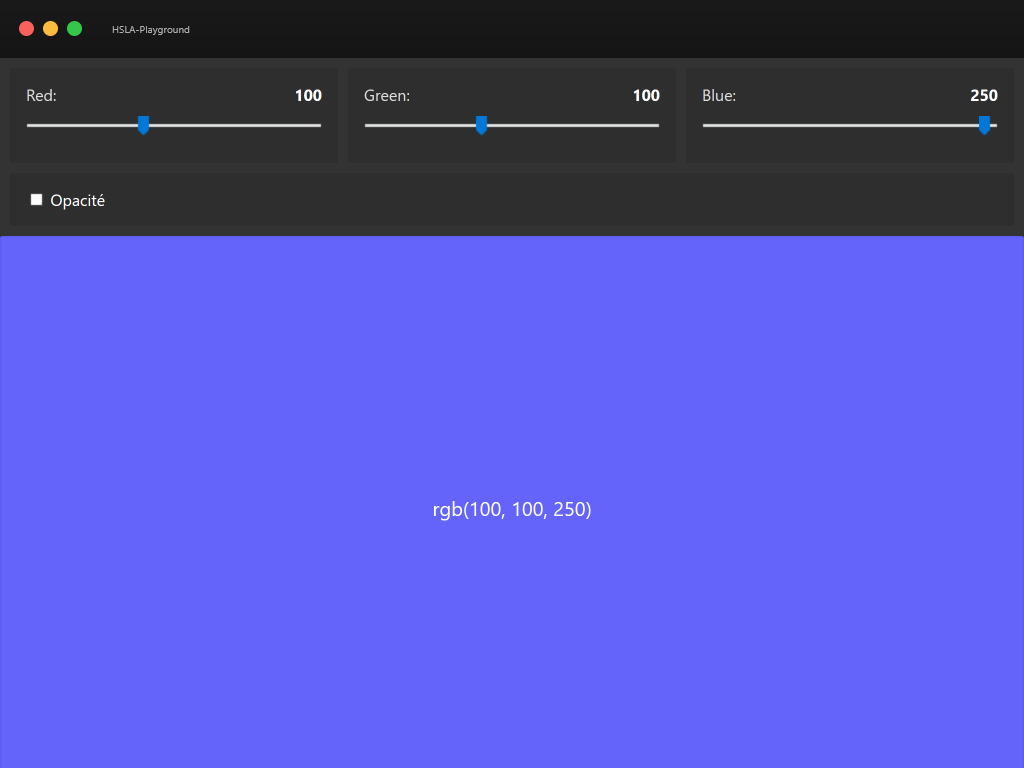
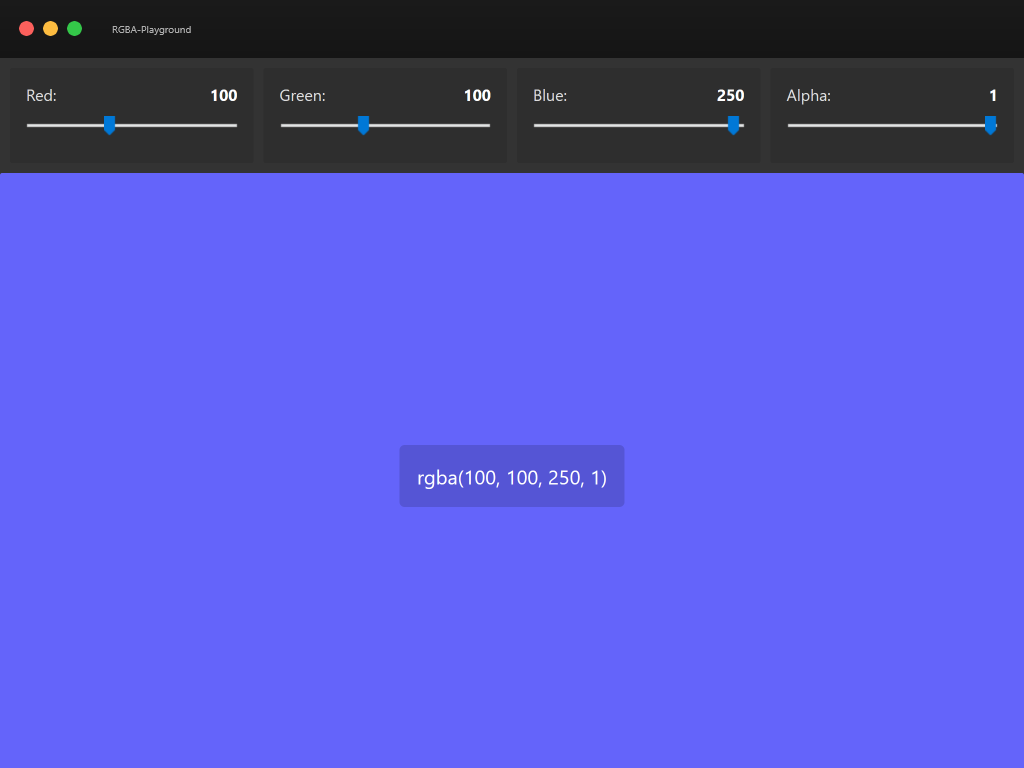
Refactor JS & Update styles

diff --git a/css/style.min.css b/css/style.min.css
@@ -1,2 +1,2 @@
-*,*:before,*:after{-webkit-box-sizing:border-box;box-sizing:border-box}@font-face{font-family:'icomoon';src:url("../fonts/icomoon.eot?rmqgkb");src:url("../fonts/icomoon.eot?rmqgkb#iefix") format("embedded-opentype"),url("../fonts/icomoon.ttf?rmqgkb") format("truetype"),url("../fonts/icomoon.woff?rmqgkb") format("woff"),url("../fonts/icomoon.svg?rmqgkb#icomoon") format("svg");font-weight:normal;font-style:normal;font-display:block}[class^="icon-"],[class*=" icon-"]{font-family:'icomoon' !important;speak:none;font-style:normal;font-weight:normal;font-variant:normal;text-transform:none;line-height:1;-webkit-font-smoothing:antialiased;-moz-osx-font-smoothing:grayscale}.icon-heart:before{content:"\e9da"}.icon-embed2:before{content:"\ea80"}.icon-github:before{content:"\eab0"}html{font-size:100%}@media only screen and (min-width: 480px){html,body{height:100%}}body{position:relative;z-index:1;display:-webkit-box;display:-ms-flexbox;display:flex;-webkit-box-orient:vertical;-webkit-box-direction:normal;-ms-flex-direction:column;flex-direction:column;margin:0;font-family:-apple-system, BlinkMacSystemFont, "Segoe UI", Roboto, Oxygen-Sans, Ubuntu, Cantarell, "Helvetica Neue", sans-serif;color:#fff;background:#333}.selectors{padding:.3125rem}.selectors_inner{display:-webkit-box;display:-ms-flexbox;display:flex;-ms-flex-wrap:wrap;flex-wrap:wrap}.selector{-webkit-box-flex:1;-ms-flex:1 0 20rem;flex:1 0 20rem;padding:1rem;margin:.3125rem;background:rgba(0,0,0,0.1);border-radius:2px}.selector_inner{display:-webkit-box;display:-ms-flexbox;display:flex;-ms-flex-wrap:wrap;flex-wrap:wrap}.selector[class^="selector_"]{-webkit-box-flex:0;-ms-flex:0 0 auto;flex:0 0 auto;min-width:0;min-height:0}.selector_range{-webkit-box-flex:1;-ms-flex:1 0 100%;flex:1 0 100%;margin:.625rem 0}.selector_label{-webkit-box-flex:1;-ms-flex:1 0 auto;flex:1 0 auto;color:#ddd}.selector_value{font-weight:700}.opacity .selector_inner{-webkit-box-orient:vertical;-webkit-box-direction:normal;-ms-flex-direction:column;flex-direction:column;max-width:20rem}#opacitySelector{display:none;-ms-flex-wrap:wrap;flex-wrap:wrap;margin-top:.625rem}
+*,*:before,*:after{-webkit-box-sizing:border-box;box-sizing:border-box}@font-face{font-family:'icomoon';src:url("../fonts/icomoon.eot?rmqgkb");src:url("../fonts/icomoon.eot?rmqgkb#iefix") format("embedded-opentype"),url("../fonts/icomoon.ttf?rmqgkb") format("truetype"),url("../fonts/icomoon.woff?rmqgkb") format("woff"),url("../fonts/icomoon.svg?rmqgkb#icomoon") format("svg");font-weight:normal;font-style:normal;font-display:block}[class^="icon-"],[class*=" icon-"]{font-family:'icomoon' !important;speak:none;font-style:normal;font-weight:normal;font-variant:normal;text-transform:none;line-height:1;-webkit-font-smoothing:antialiased;-moz-osx-font-smoothing:grayscale}.icon-heart:before{content:"\e9da"}.icon-embed2:before{content:"\ea80"}.icon-github:before{content:"\eab0"}html{font-size:100%}@media only screen and (min-width: 480px){html,body{height:100%}}body{position:relative;z-index:1;display:-webkit-box;display:-ms-flexbox;display:flex;-webkit-box-orient:vertical;-webkit-box-direction:normal;-ms-flex-direction:column;flex-direction:column;min-height:100vh;margin:0;font-family:-apple-system, BlinkMacSystemFont, "Segoe UI", Roboto, Oxygen-Sans, Ubuntu, Cantarell, "Helvetica Neue", sans-serif;color:#fff;background:#333}.selectors{padding:.3125rem}.selectors_inner{display:-webkit-box;display:-ms-flexbox;display:flex;-ms-flex-wrap:wrap;flex-wrap:wrap}.selector{-webkit-box-flex:1;-ms-flex:1 0 0px;flex:1 0 0;padding:1rem;margin:.3125rem;background:rgba(0,0,0,0.1);border-radius:2px}.selector_inner{display:-webkit-box;display:-ms-flexbox;display:flex;-ms-flex-wrap:wrap;flex-wrap:wrap}.selector[class^="selector_"]{-webkit-box-flex:0;-ms-flex:0 0 auto;flex:0 0 auto;min-width:0;min-height:0}.selector_range{-webkit-box-flex:1;-ms-flex:1 0 100%;flex:1 0 100%;margin:.625rem 0}.selector_label{-webkit-box-flex:1;-ms-flex:1 0 auto;flex:1 0 auto;color:#ddd}.selector_value{font-weight:700}@media only screen and (max-width: 480px){.selector{padding:.3125em;font-size:.75em}}
 /*# sourceMappingURL=style.min.css.map */

diff --git a/js/index.js b/js/index.js
@@ -1,96 +1,41 @@
-// -----------------------------------------------------------------------
-// GET RGB
-// -----------------------------------------------------------------------
 
-function rgbDef(value1, value2, value3, range1, range2, range3, result, txt) {
+var rgbaPlayground = {
 
-  value1.innerHTML = range1;
-  value2.innerHTML = range2;
-  value3.innerHTML = range3;
+  ranges: document.querySelectorAll(".selector_range"),
+  values: document.querySelectorAll(".selector_value"),
+  result: document.querySelector('.resultat'),
+  txt: document.querySelector('.resultat_value'),
 
-  let resultValues = "rgb(" + range1 + ", " + range2 + ", " + range3 + ")";
+  init: function() {
+    this._displayRgba()
+    this._showValue()
+  },
 
-  result.style.background = resultValues
-  txt.innerHTML = resultValues
+  _displayRgba() {
 
-}
+    this.values[0].innerHTML = this.ranges[0].value;
+    this.values[1].innerHTML = this.ranges[1].value;
+    this.values[2].innerHTML = this.ranges[2].value;
+    this.values[3].innerHTML = this.ranges[3].value;
 
-function rgbDefFunc() {
+    var resultValues = "rgba(" + this.ranges[0].value + ", " + this.ranges[1].value + ", " + this.ranges[2].value + ", " + this.ranges[3].value + ")"
+    this.result.style.background = resultValues
+    this.txt.innerHTML = resultValues
 
-  let ranges = document.querySelectorAll(".selector_range")
-  let values = document.querySelectorAll(".selector_value")
-  let result = document.querySelector('.colors')
-  let txt = document.querySelector('.resultat')
+  },
 
-  rgbDef(values[0], values[1], values[2], ranges[0].value, ranges[1].value, ranges[2].value, result, txt)
 
-}
+  // Display values
+  _showValue: function () {
+    var self = this
 
-// -----------------------------------------------------------------------
-// GET RGBA
-// -----------------------------------------------------------------------
-
-function rgbaDef(value1, value2, value3, value4, range1, range2, range3, range4,  result, txt) {
-
-  value1.innerHTML = range1;
-  value2.innerHTML = range2;
-  value3.innerHTML = range3;
-  value4.innerHTML = range4;
-
-  let resultValues = "rgba(" + range1 + ", " + range2 + ", " + range3 + ", " + range4 + ")"
-
-  result.style.background = resultValues
-  txt.innerHTML = resultValues
-
-}
-
-function rgbaDefFunc() {
-
-  let ranges = document.querySelectorAll(".selector_range")
-  let values = document.querySelectorAll(".selector_value")
-  let result = document.querySelector('.colors')
-  let txt = document.querySelector('.resultat')
-
-  rgbaDef(values[0], values[1], values[2], values[3], ranges[0].value, ranges[1].value, ranges[2].value, ranges[3].value, result, txt)
-
-}
-
-// -----------------------------------------------------------------------
-// DISPLAY DYNAMIC VALUES
-// -----------------------------------------------------------------------
-
-// RGB
-rgbDefFunc()
-
-// RGBA
-rgbaDefFunc()
-
-// Check opacity
-function checkOpacity() {
-  // Get the checkbox
-  let checkBox = document.getElementById("checkOpacity")
-  // Get the opacity container
-  let opacitySelector = document.getElementById("opacitySelector")
-  // Get opacity range
-  let opacityRange = document.querySelector('#opacitySelector input')
-  // If the checkbox is checked
-  if (checkBox.checked == true) {
-    // Show opacity range
-    opacitySelector.style.display = "flex";
-    // Apply rgba function
-    rgbaDefFunc()
-  } else {
-    // Hide opacity range
-    opacitySelector.style.display = "none";
-    // Reinitialize opacity value
-    opacityRange.value = 1
-    // Apply rgb function
-    rgbDefFunc()
+    for (range of this.ranges) {
+      range.addEventListener('input', function() {
+        self._displayRgba()
+      });
+    }
   }
 }
-checkOpacity()
+rgbaPlayground.init()
 
-// Display values
-function showValue(value) {
-  checkOpacity()
-}
+

diff --git a/index.html b/index.html
@@ -30,41 +30,36 @@
         <div class="selector_inner">
           <span class="selector_label">Red:</span>
           <span class="selector_value"></span>
-          <input type="range" class="selector_range" value="100" min="0" max="255" step="1" oninput="showValue(this.value)" onchange="showValue(this.value)">
+          <input type="range" class="selector_range" value="100" min="0" max="255" step="1">
         </div>
       </div>
       <div class="selector">
         <div class="selector_inner">
           <span class="selector_label">Green:</span>
           <span class="selector_value"></span>
-          <input type="range" class="selector_range" value="100" min="0" max="255" step="1" oninput="showValue(this.value)" onchange="showValue(this.value)">
+          <input type="range" class="selector_range" value="100" min="0" max="255" step="1">
         </div>
       </div>
       <div class="selector">
         <div class="selector_inner">
           <span class="selector_label">Blue:</span>
           <span class="selector_value"></span>
-          <input type="range" class="selector_range" value="250" min="0" max="255" step="1" oninput="showValue(this.value)" onchange="showValue(this.value)">
+          <input type="range" class="selector_range" value="250" min="0" max="255" step="1">
         </div>
       </div>
       <div class="selector opacity">
         <div class="selector_inner">
-          <div class="opacity_check">
-            <input type="checkbox" name="opacity" id="checkOpacity" onclick="checkOpacity()">
-            <label for="checkOpacity">Opacité</label>
-          </div>
-          <div id="opacitySelector" class="opacity_range">
-            <span class="selector_label">Alpha:</span>
+          <span class="selector_label">Alpha:</span>
             <span class="selector_value"></span>
-            <input type="range" class="selector_range" value="1" min="0" max="1" step="0.01" oninput="showValue(this.value)" onchange="showValue(this.value)">
+            <input type="range" class="selector_range" value="1" min="0" max="1" step="0.01">
           </div>
         </div>
       </div>
      </div>
   </div>
-  <link rel="stylesheet" href="css/colors.min.css">
-  <div class="colors">
-    <div class="resultat"></div>
+  <link rel="stylesheet" href="css/resultat.min.css">
+  <div class="resultat">
+    <div class="resultat_value"></div>
   </div>
   <link rel="stylesheet" href="css/footer.min.css">
   <footer class="container">

diff --git a/offline.html b/offline.html
@@ -30,41 +30,36 @@
         <div class="selector_inner">
           <span class="selector_label">Red:</span>
           <span class="selector_value"></span>
-          <input type="range" class="selector_range" value="100" min="0" max="255" step="1" oninput="showValue(this.value)" onchange="showValue(this.value)">
+          <input type="range" class="selector_range" value="100" min="0" max="255" step="1">
         </div>
       </div>
       <div class="selector">
         <div class="selector_inner">
           <span class="selector_label">Green:</span>
           <span class="selector_value"></span>
-          <input type="range" class="selector_range" value="100" min="0" max="255" step="1" oninput="showValue(this.value)" onchange="showValue(this.value)">
+          <input type="range" class="selector_range" value="100" min="0" max="255" step="1">
         </div>
       </div>
       <div class="selector">
         <div class="selector_inner">
           <span class="selector_label">Blue:</span>
           <span class="selector_value"></span>
-          <input type="range" class="selector_range" value="250" min="0" max="255" step="1" oninput="showValue(this.value)" onchange="showValue(this.value)">
+          <input type="range" class="selector_range" value="250" min="0" max="255" step="1">
         </div>
       </div>
       <div class="selector opacity">
         <div class="selector_inner">
-          <div class="opacity_check">
-            <input type="checkbox" name="opacity" id="checkOpacity" onclick="checkOpacity()">
-            <label for="checkOpacity">Opacité</label>
-          </div>
-          <div id="opacitySelector" class="opacity_range">
-            <span class="selector_label">Alpha:</span>
+          <span class="selector_label">Alpha:</span>
             <span class="selector_value"></span>
-            <input type="range" class="selector_range" value="1" min="0" max="1" step="0.01" oninput="showValue(this.value)" onchange="showValue(this.value)">
+            <input type="range" class="selector_range" value="1" min="0" max="1" step="0.01">
           </div>
         </div>
       </div>
      </div>
   </div>
-  <link rel="stylesheet" href="css/colors.min.css">
-  <div class="colors">
-    <div class="resultat"></div>
+  <link rel="stylesheet" href="css/resultat.min.css">
+  <div class="resultat">
+    <div class="resultat_value"></div>
   </div>
   <link rel="stylesheet" href="css/footer.min.css">
   <footer class="container">

diff --git a/css/footer.min.css b/css/footer.min.css
@@ -1,2 +1,2 @@
-footer{padding:1em;font-size:.875em;text-align:center;color:#aaa}footer div+div{margin-top:1em}footer a{color:#aaa;text-decoration:none;-webkit-transition:color .4s;transition:color .4s}footer a:hover{color:#03A9F4}footer [class*="icon-"]{display:inline-block;vertical-align:middle}@media only screen and (min-width: 768px){footer{display:-webkit-box;display:-ms-flexbox;display:flex;-webkit-box-pack:justify;-ms-flex-pack:justify;justify-content:space-between}footer div+div{margin-top:0}}
+footer{display:-webkit-box;display:-ms-flexbox;display:flex;-webkit-box-pack:justify;-ms-flex-pack:justify;justify-content:space-between;padding:1em;font-size:.875em;text-align:center;color:#aaa}footer a{color:#aaa;text-decoration:none;-webkit-transition:color .4s;transition:color .4s}footer a:hover{color:#03A9F4}footer [class*="icon-"]{display:inline-block;vertical-align:middle}
 /*# sourceMappingURL=footer.min.css.map */

diff --git a/css/style.scss b/css/style.scss
@@ -58,6 +58,7 @@ body {
   z-index: 1;
   display: flex;
   flex-direction: column;
+  min-height: 100vh;
   margin: 0;
   font-family: -apple-system, BlinkMacSystemFont, "Segoe UI", Roboto, Oxygen-Sans, Ubuntu, Cantarell, "Helvetica Neue", sans-serif;
   color: #fff;
@@ -74,10 +75,10 @@ body {
 }
 
 .selector {
-  flex: 1 0 20rem;
+  flex: 1 0 0;
   padding: 1rem;
   margin: .3125rem;
-  background: rgba(00,00,00,.10);
+  background: rgba(black,.10);
   border-radius: 2px;
 
   &_inner {
@@ -106,15 +107,9 @@ body {
   }
 }
 
-.opacity {
-  .selector_inner {
-    flex-direction: column;
-    max-width: 20rem;
+@media only screen and(max-width: 480px) {
+  .selector {
+    padding: .3125em;
+    font-size: .75em;
   }
-}
-
-#opacitySelector {
-  display: none;
-  flex-wrap: wrap;
-  margin-top: .625rem;
 }

diff --git a/css/footer.scss b/css/footer.scss
@@ -4,14 +4,12 @@ $footer-color: #aaa;
 $footer-link-color-hover: #03A9F4;
 
 footer {
+  display: flex;
+  justify-content: space-between;
   padding: 1em;
   font-size:.875em;
   text-align: center;
   color: $footer-color;
-
-  div + div {
-    margin-top: 1em;
-  }
 
   a {
     color: $footer-color;
@@ -26,15 +24,5 @@ footer {
   [class*="icon-"] {
     display: inline-block;
     vertical-align: middle;
-  }
-}
-
-@media only screen and (min-width: 768px) {
-  footer {
-    display: flex;
-    justify-content: space-between;
-    div + div {
-      margin-top: 0;
-    }
   }
 }

diff --git a/css/resultat.scss b/css/resultat.scss
@@ -1,15 +1,19 @@
 /* ---------- Result ---------- */
 
-.colors {
+.resultat {
   flex: 1;
   display: flex;
   justify-content: center;
   align-items: center;
   padding: 1rem;
-  background: rgba(00, 00, 00, .15);
   border-radius: 2px;
-  box-shadow: inset 0px 0px 2px rgba(00, 00, 00, .15);
-  font-size: 1.25rem;
+  font-size: 1.25em;
   text-align: center;
+
+  &_value {
+    padding: .875em;
+    background: rgba(00, 00, 00, .15);
+    border-radius: .3125rem;
+  }
 }
 

diff --git a/css/resultat.min.css b/css/resultat.min.css
@@ -1,0 +1,2 @@
+.resultat{-webkit-box-flex:1;-ms-flex:1;flex:1;display:-webkit-box;display:-ms-flexbox;display:flex;-webkit-box-pack:center;-ms-flex-pack:center;justify-content:center;-webkit-box-align:center;-ms-flex-align:center;align-items:center;padding:1rem;border-radius:2px;font-size:1.25em;text-align:center}.resultat_value{padding:.875em;background:rgba(0,0,0,0.15);border-radius:.3125rem}
+/*# sourceMappingURL=resultat.min.css.map */

diff --git a/README.md b/README.md
@@ -8,6 +8,12 @@ Outil en ligne pour générer une couleur RGB/RGBA
 
 ![img/hsla-playground.png](img/rgba-playground.png "Screenshot")
 
+**Mise à jour 26/04/2020**
+
+* Refactorisation du JavaScript
+* Maj des styles
+* Modification de la capture d'écran
+
 **Mise à jour 25/04/2020**
 
 * Ajout de la capture d'écran
